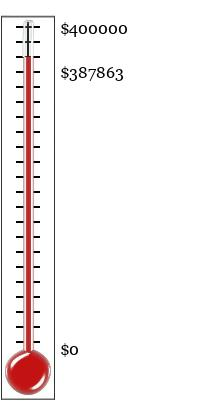
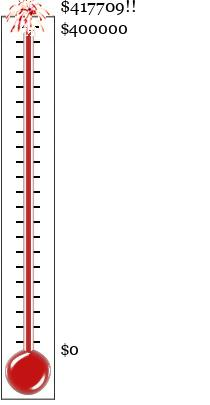
Dec 2025 fundraising update: $417,709; Community goes Iridium!

Changed region(s): [[0.0286, 0.0, 0.2571, 0.1481], [0.2857, 0.1481, 0.6, 0.2074], [0.2857, 0.0, 0.6571, 0.0593]]

diff --git a/contributors.html b/contributors.html
@@ -109,9 +109,11 @@ On request we will provide a link to your website for donations of
 <EM><A HREF=activities.html#2025>2025 Supported Activities</A></EM>
 <UL>
 <LI> Iridium: $100,000 and above
-<LI> Platinum: $50,000 to $100,000
 <UL>
 <LI><A HREF=donations.html>Total from smaller donors</A>
+</UL>
+<LI> Platinum: $50,000 to $100,000
+<UL>
 <LI><A HREF=https://www.google.com>Google</A>
 </UL>
 <LI> Gold: $25,000 to $50,000
